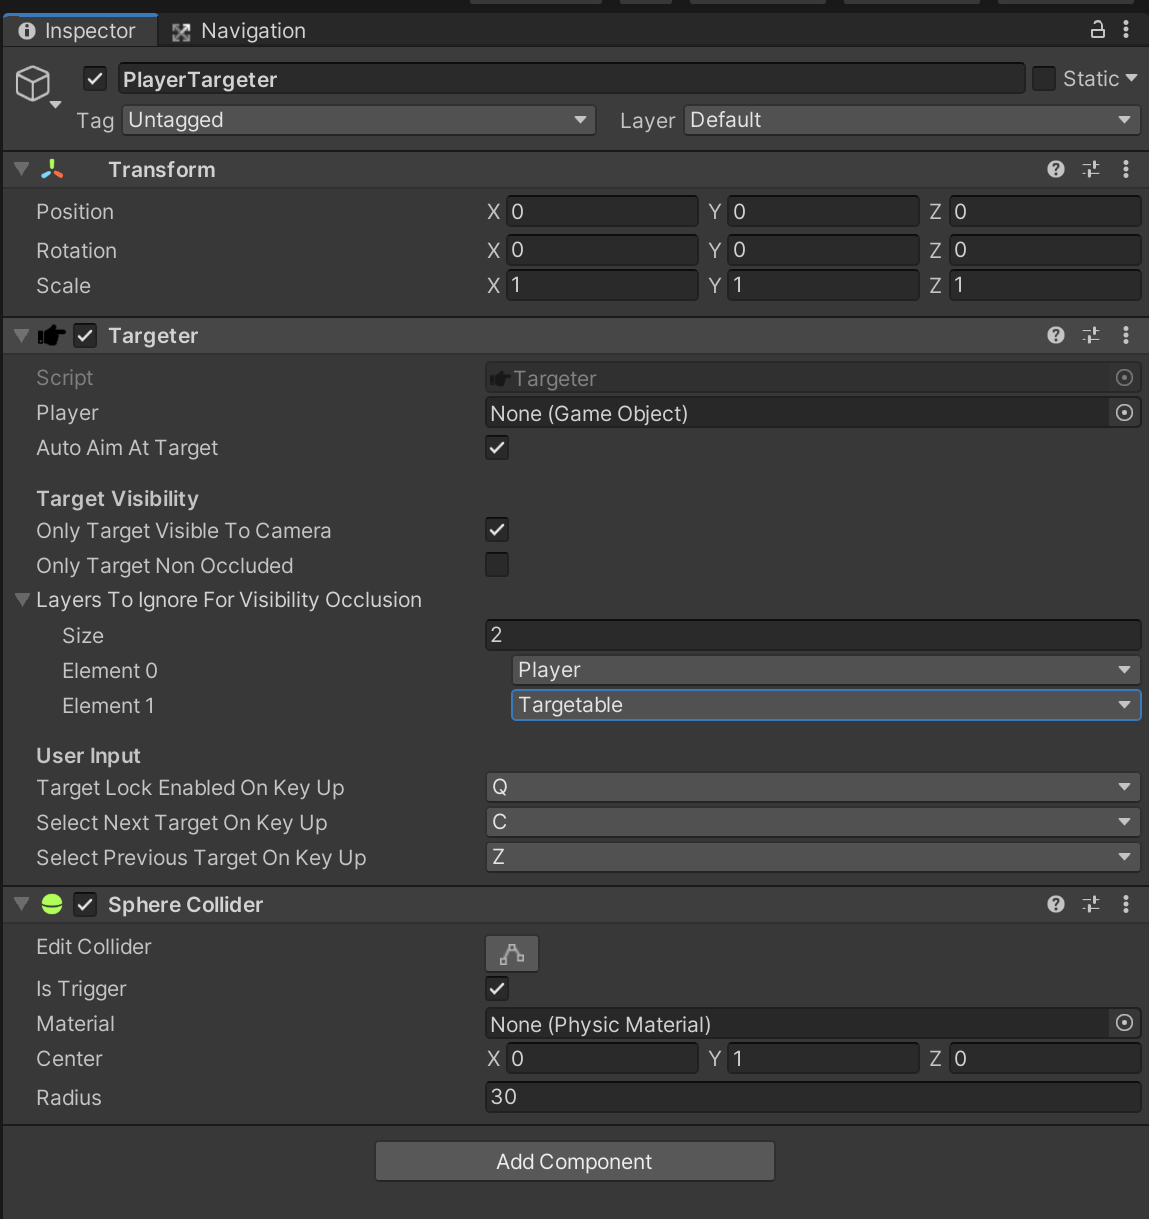
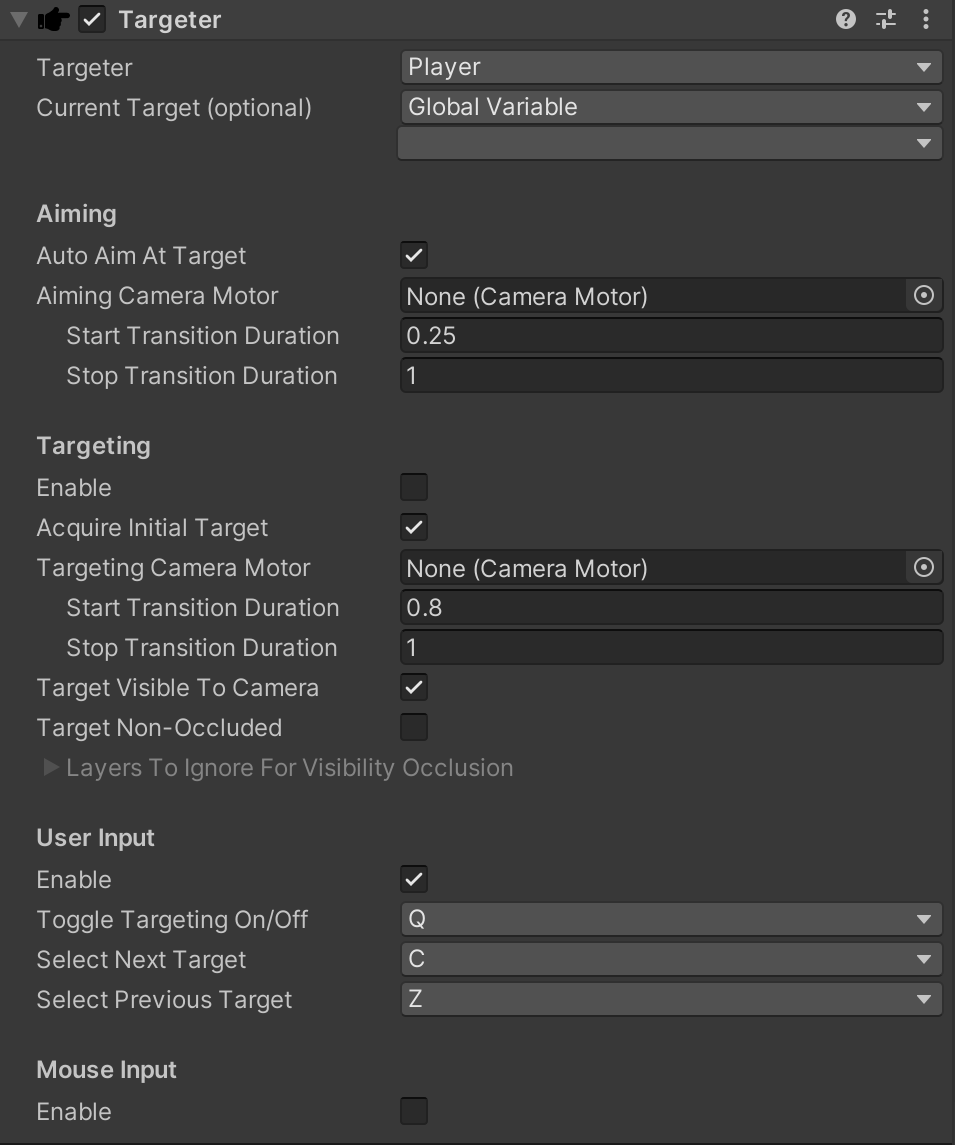
Deployed b0fc054 with MkDocs version: 1.1.2

diff --git a/combat/targeting/targeter/index.html b/combat/targeting/targeter/index.html
@@ -60,7 +60,7 @@
     <div data-md-component="skip">
       
         
-        <a href="#auto-aim-at-target" class="md-skip">
+        <a href="#aiming" class="md-skip">
           Skip to content
         </a>
       
@@ -305,19 +305,67 @@
     <ul class="md-nav__list" data-md-scrollfix>
       
         <li class="md-nav__item">
+  <a href="#aiming" class="md-nav__link">
+    Aiming
+  </a>
+  
+    <nav class="md-nav" aria-label="Aiming">
+      <ul class="md-nav__list">
+        
+          <li class="md-nav__item">
   <a href="#auto-aim-at-target" class="md-nav__link">
     Auto Aim At Target
   </a>
   
 </li>
+        
+          <li class="md-nav__item">
+  <a href="#aiming-camera-motor" class="md-nav__link">
+    Aiming Camera Motor
+  </a>
+  
+</li>
+        
+      </ul>
+    </nav>
+  
+</li>
       
         <li class="md-nav__item">
+  <a href="#targeting" class="md-nav__link">
+    Targeting
+  </a>
+  
+    <nav class="md-nav" aria-label="Targeting">
+      <ul class="md-nav__list">
+        
+          <li class="md-nav__item">
+  <a href="#enabled" class="md-nav__link">
+    Enabled
+  </a>
+  
+</li>
+        
+          <li class="md-nav__item">
+  <a href="#acquire-initial-target" class="md-nav__link">
+    Acquire Initial Target
+  </a>
+  
+</li>
+        
+          <li class="md-nav__item">
+  <a href="#aiming-camera-motor_1" class="md-nav__link">
+    Aiming Camera Motor
+  </a>
+  
+</li>
+        
+          <li class="md-nav__item">
   <a href="#target-visibility" class="md-nav__link">
     Target Visibility
   </a>
   
-    <nav class="md-nav" aria-label="Target Visibility">
-      <ul class="md-nav__list">
+</li>
         
           <li class="md-nav__item">
   <a href="#only-target-visible-to-camera" class="md-nav__link">
@@ -331,7 +379,8 @@
     Only Target Non-Occluded
   </a>
   
-</li>
+    <nav class="md-nav" aria-label="Only Target Non-Occluded">
+      <ul class="md-nav__list">
         
           <li class="md-nav__item">
   <a href="#layers-to-ignore-for-visibility-occlusion" class="md-nav__link">
@@ -344,10 +393,22 @@
     </nav>
   
 </li>
+        
+      </ul>
+    </nav>
+  
+</li>
       
         <li class="md-nav__item">
   <a href="#user-input" class="md-nav__link">
     User Input
+  </a>
+  
+</li>
+      
+        <li class="md-nav__item">
+  <a href="#mouse-input" class="md-nav__link">
+    Mouse Input
   </a>
   
 </li>
@@ -429,19 +490,67 @@
     <ul class="md-nav__list" data-md-scrollfix>
       
         <li class="md-nav__item">
+  <a href="#aiming" class="md-nav__link">
+    Aiming
+  </a>
+  
+    <nav class="md-nav" aria-label="Aiming">
+      <ul class="md-nav__list">
+        
+          <li class="md-nav__item">
   <a href="#auto-aim-at-target" class="md-nav__link">
     Auto Aim At Target
   </a>
   
 </li>
+        
+          <li class="md-nav__item">
+  <a href="#aiming-camera-motor" class="md-nav__link">
+    Aiming Camera Motor
+  </a>
+  
+</li>
+        
+      </ul>
+    </nav>
+  
+</li>
       
         <li class="md-nav__item">
+  <a href="#targeting" class="md-nav__link">
+    Targeting
+  </a>
+  
+    <nav class="md-nav" aria-label="Targeting">
+      <ul class="md-nav__list">
+        
+          <li class="md-nav__item">
+  <a href="#enabled" class="md-nav__link">
+    Enabled
+  </a>
+  
+</li>
+        
+          <li class="md-nav__item">
+  <a href="#acquire-initial-target" class="md-nav__link">
+    Acquire Initial Target
+  </a>
+  
+</li>
+        
+          <li class="md-nav__item">
+  <a href="#aiming-camera-motor_1" class="md-nav__link">
+    Aiming Camera Motor
+  </a>
+  
+</li>
+        
+          <li class="md-nav__item">
   <a href="#target-visibility" class="md-nav__link">
     Target Visibility
   </a>
   
-    <nav class="md-nav" aria-label="Target Visibility">
-      <ul class="md-nav__list">
+</li>
         
           <li class="md-nav__item">
   <a href="#only-target-visible-to-camera" class="md-nav__link">
@@ -455,7 +564,8 @@
     Only Target Non-Occluded
   </a>
   
-</li>
+    <nav class="md-nav" aria-label="Only Target Non-Occluded">
+      <ul class="md-nav__list">
         
           <li class="md-nav__item">
   <a href="#layers-to-ignore-for-visibility-occlusion" class="md-nav__link">
@@ -468,10 +578,22 @@
     </nav>
   
 </li>
+        
+      </ul>
+    </nav>
+  
+</li>
       
         <li class="md-nav__item">
   <a href="#user-input" class="md-nav__link">
     User Input
+  </a>
+  
+</li>
+      
+        <li class="md-nav__item">
+  <a href="#mouse-input" class="md-nav__link">
+    Mouse Input
   </a>
   
 </li>
@@ -499,20 +621,36 @@ The <strong>Sphere Collider</strong> attached to the same game object (as depict
 Note that the range of the <strong>Targeter</strong> is dictated by the <strong>Radius</strong> property of this collider. 
 The <strong>PlayerTargeter</strong> prefab should be nested under the Game Creator Player object.</p>
 <p><img alt="Targeter component" src="../../../images/combat/targeting/targeter_1.png" title="Targeter component" /></p>
-<h2 id="auto-aim-at-target">Auto Aim At Target<a class="headerlink" href="#auto-aim-at-target" title="Permanent link">#</a></h2>
+<h2 id="aiming">Aiming<a class="headerlink" href="#aiming" title="Permanent link">#</a></h2>
+<h3 id="auto-aim-at-target">Auto Aim At Target<a class="headerlink" href="#auto-aim-at-target" title="Permanent link">#</a></h3>
 <p>Automatically aiming at a target can be disabled with the <strong>Auto Aim At Target</strong> option - the character will still be locked on to it, but will not fix their weapon on it while aiming. 
 This may be desirable for some games.</p>
-<h2 id="target-visibility">Target Visibility<a class="headerlink" href="#target-visibility" title="Permanent link">#</a></h2>
+<h3 id="aiming-camera-motor">Aiming Camera Motor<a class="headerlink" href="#aiming-camera-motor" title="Permanent link">#</a></h3>
 <div class="admonition tip">
-<p class="admonition-title">New in 0.4.0</p>
+<p class="admonition-title">New in 0.9.0</p>
 </div>
+<p>If set, the camera will switch to this alternative camera motor while <strong>aiming</strong> at a target.</p>
+<h2 id="targeting">Targeting<a class="headerlink" href="#targeting" title="Permanent link">#</a></h2>
+<h3 id="enabled">Enabled<a class="headerlink" href="#enabled" title="Permanent link">#</a></h3>
+<p>If enabled, targeting will be enabled when the scene loads.</p>
+<h3 id="acquire-initial-target">Acquire Initial Target<a class="headerlink" href="#acquire-initial-target" title="Permanent link">#</a></h3>
+<p>If enabled, the closest target will be automatically set if one is available.</p>
+<div class="admonition tip">
+<p class="admonition-title">This is useful to disable for mouse targeting</p>
+</div>
+<h3 id="aiming-camera-motor_1">Aiming Camera Motor<a class="headerlink" href="#aiming-camera-motor_1" title="Permanent link">#</a></h3>
+<div class="admonition tip">
+<p class="admonition-title">New in 0.9.0</p>
+</div>
+<p>If set, the camera will switch to this alternative camera motor while <strong>targeting</strong> A target.</p>
+<h3 id="target-visibility">Target Visibility<a class="headerlink" href="#target-visibility" title="Permanent link">#</a></h3>
 <p>The component's target visibility options allow for target selection to be limited by what the camera can see.</p>
 <h3 id="only-target-visible-to-camera">Only Target Visible To Camera<a class="headerlink" href="#only-target-visible-to-camera" title="Permanent link">#</a></h3>
 <p>If enabled, only targets possibly visible to the camera (i.e. in its view frustum) are targetable.</p>
 <h3 id="only-target-non-occluded">Only Target Non-Occluded<a class="headerlink" href="#only-target-non-occluded" title="Permanent link">#</a></h3>
 <p>If enabled, targets hidden behind objects are not targetable. </p>
 <p>Note that this option is turned off by default because the player and targetables need to be on dedicated layers which requires manual configuration.</p>
-<h3 id="layers-to-ignore-for-visibility-occlusion">Layers To Ignore For Visibility Occlusion<a class="headerlink" href="#layers-to-ignore-for-visibility-occlusion" title="Permanent link">#</a></h3>
+<h4 id="layers-to-ignore-for-visibility-occlusion">Layers To Ignore For Visibility Occlusion<a class="headerlink" href="#layers-to-ignore-for-visibility-occlusion" title="Permanent link">#</a></h4>
 <p>The layers to ignore when determining target visibility when <a href="../targetable/#Only Target Non-Occluded">Only Target Non-Occluded</a> is enabled.</p>
 <p>Typically, there should be two layers:</p>
 <ul>
@@ -521,6 +659,8 @@ This may be desirable for some games.</p>
 </ul>
 <h2 id="user-input">User Input<a class="headerlink" href="#user-input" title="Permanent link">#</a></h2>
 <p>The <strong>User Input</strong> section of the <strong>Targeter</strong> component allows the keys that control target locking and switching to be customized.</p>
+<h2 id="mouse-input">Mouse Input<a class="headerlink" href="#mouse-input" title="Permanent link">#</a></h2>
+<p>The <strong>Mouse Input</strong> section of the <strong>Targeter</strong> component allows targeting by left clicking to be toggled on or off.</p>
                 
               
               

diff --git a/combat/roadmap/index.html b/combat/roadmap/index.html
@@ -264,6 +264,13 @@
       <ul class="md-nav__list">
         
           <li class="md-nav__item">
+  <a href="#v090" class="md-nav__link">
+    v0.9.0
+  </a>
+  
+</li>
+        
+          <li class="md-nav__item">
   <a href="#v081" class="md-nav__link">
     v0.8.1
   </a>
@@ -484,6 +491,13 @@
       <ul class="md-nav__list">
         
           <li class="md-nav__item">
+  <a href="#v090" class="md-nav__link">
+    v0.9.0
+  </a>
+  
+</li>
+        
+          <li class="md-nav__item">
   <a href="#v081" class="md-nav__link">
     v0.8.1
   </a>
@@ -566,7 +580,10 @@
 <p><strong>Targeting Features</strong></p>
 <ul>
 <li>Aim-Assist, i.e. focus on a target when the player's targeting reticule is near or on the target.</li>
-<li>Camera Focus, i.e. optionally follow the current target with the camera while aiming.</li>
+</ul>
+<p><strong>Spawner Features</strong></p>
+<ul>
+<li>Timer-based Spawning. </li>
 </ul>
 <h2 id="future-release">Future Release<a class="headerlink" href="#future-release" title="Permanent link">#</a></h2>
 <p><strong>Targeting Features</strong></p>
@@ -578,11 +595,19 @@
 </ul>
 <p><strong>Spawner Features</strong></p>
 <ul>
-<li>Timer-based Spawning.</li>
 <li>Lootable/Drop Chance System.</li>
 <li>Random Item Drop (alternative to weighted random selection).</li>
 </ul>
 <h2 id="previous-releases">Previous Releases<a class="headerlink" href="#previous-releases" title="Permanent link">#</a></h2>
+<h3 id="v090">v0.9.0<a class="headerlink" href="#v090" title="Permanent link">#</a></h3>
+<p><strong>Targeting Feature</strong> </p>
+<ul>
+<li>Targeter Camera Motors, optionally follow the current target with the camera while targeting or aiming with a Shooter weapon. </li>
+</ul>
+<p><strong>Bug Fixes</strong> </p>
+<ul>
+<li>Combat Examples (Shooter) prefab weapon references have been restored. </li>
+</ul>
 <h3 id="v081">v0.8.1<a class="headerlink" href="#v081" title="Permanent link">#</a></h3>
 <p><strong>Bug Fixes</strong></p>
 <ul>
